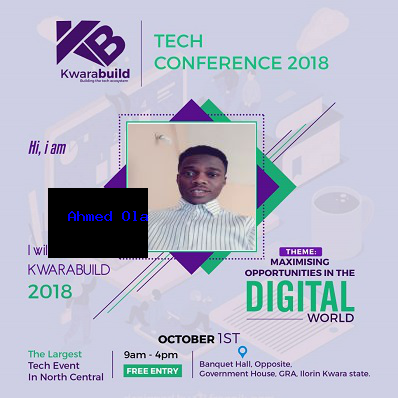
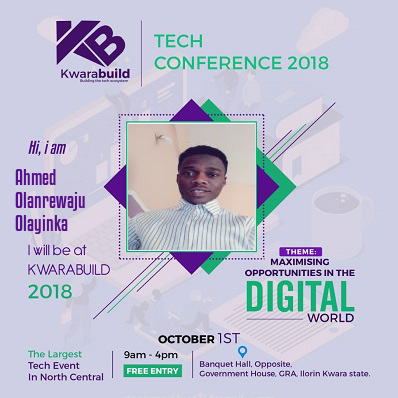
feat: add text to image and formatting

Changed region(s): [[0.0302, 0.4221, 0.392, 0.6633]]

diff --git a/auth/DP.php b/auth/DP.php
@@ -1,52 +1,12 @@
 <?php
 
-/*
-
-int imagecopy ( resource dest_image, resource source_image, int dest_x, int dest_y, 
-int source_x, int source_y, int source_width, int source_height)
-
-int imagecopymerge ( resource dest_image, resource source_image, int dest_x, int dest_y, 
-int source_x, int source_y, int source_width, int source_height, int merge_percentage)
-
-1. The destination image you're copying to
-
-2. The source image you're copying from
-
-3. The X co-ordinate you want to copy to
-
-4. The Y co-ordinate you want to copy to
-
-5. The X co-ordinate you want to copy from
-
-6. The y co-ordinate you want to copy from
-
-7. The width in pixels of the source image you want to copy
-
-8. The height in pixels of the source image you want to copy
-
-Parameters three and four allow you to position the source image where you want it on the destination image, 
-and parameters five, six, seven, and eight allow you to define the rectangular area of the source image that 
-you want to copy. Most of the time you will want to leave parameters five and six at 0 
-(copy from the top-left hand corner of the image), and parameters seven and eight at the width of the source image
- (the bottom-right corner of it) so that it copies the entire source image.
-
-The way these functions differ is in the last parameter: imagecopy() always overwrites all the pixels in the 
-destination with those of the source, whereas imagecopymerge() merges the destination pixels with the source 
-pixels by the amount specified in the extra parameter: 0 means "keep the source picture fully", 100 means 
-"overwrite with the source picture fully", and 50 means "mix the source and destination pixel colours equally". 
-The imagecopy() function is therefore equivalent to calling imagecopymerge() and passing in 100 as the last parameter.
-
-*/
-
 class DISPLAY_PICTURE {
  
-   protected $db;
+   private static $image_name;
 
-   private static $sy;
-
-   function __construct()
+   function __construct($name)
     {
-        
+        $this->$image_name = $name;
     }
  
    function __destruct()
@@ -75,7 +35,7 @@ class DISPLAY_PICTURE {
 
 		$final_image = $this->addtext($txt, $frame, $av_img, 250, 140);
 
-		$this->saveFile($final_image, $destination_path, "a.jpg");
+		$this->saveFile($final_image, $destination_path, $this->$image_name);
 
 	}
 
@@ -142,43 +102,46 @@ class DISPLAY_PICTURE {
 	private function addtext($txt, $frame, $av_img, $merge_right, $merge_bottom)
 	{
 
-		/* 
+		// Set the enviroment variable for GD
+		putenv('GDFONTPATH=' . realpath('.'));
 
-		#imagettftext-params below
-		( resource $image , float $size , float $angle , int $x , int $y , int $color , string $fontfile , string $text )
+		// Set the content-type
+		// header('Content-type: image/jpeg');
 
-		image : An image resource, returned by one of the image creation functions, such as imagecreatetruecolor().
+		// Create Image From Existing File
+		$jpg_image = $frame;
 
-		size: The font size in points.
+		// Allocate A Color For The Text
+		$white = imagecolorallocate($jpg_image, 87, 15, 140);
 
-		angle : The angle in degrees, with 0 degrees being left-to-right reading text. Higher values represent a counter-clockwise rotation. For example, a value of 90 would result in bottom-to-top reading text.
+		// Set Path to Font File
+		$font_path = '../src/fonts/kenyan_coffee/kenyan coffee rg.ttf';
 
-		x :The coordinates given by x and y will define the basepoint of the first character (roughly the lower-left corner of the character). This is different from the imagestring(), where x and y define the upper-left corner of the first character. For example, "top left" is 0, 0.
+		// Set Text to Be Printed On Image
+		$username  = $txt;
+		$names = explode(" ", $username);
+		$ycounter = 185;
+		$indexCounter = 0;
 
-		y : The y-ordinate. This sets the position of the fonts baseline, not the very bottom of the character.
+		foreach ($names as $text) {
+		    // Print Text On Image
+			imagettftext($jpg_image, 15, 0, 15, $ycounter, $white, $font_path, $text);
+			$ycounter += 23;
+			$indexCounter += 1;
+			if($names[$indexCounter] == $names[3]){
+				break;
+			}
+		}
 
-		color : The color index. Using the negative of a color index has the effect of turning off antialiasing. See imagecolorallocate().
+		$text = $txt;		
 
-		fontfile : The path to the TrueType font you wish to use.
+		// Send Image to Browser
+		// imagejpeg($jpg_image);
 
-		*/
+		// Using imagepng() results in clearer text compared with imagejpeg()
+		// imagepng($frame);
 
-		// First we create our stamp image manually from GD
-		$stamp = imagecreatetruecolor(100, 70);
-		// imagefilledrectangle($stamp, 0, 0, 99, 69, 0x0000FF);
-		// imagefilledrectangle($stamp, 9, 9, 90, 60, 0xFFFFFF);
-		imagestring($stamp, 5, 20, 20, $txt, 0x0000FF);
-
-		// Set the margins for the stamp and get the height/width of the stamp image
-		$marge_right = $merge_right;
-		$marge_bottom = $merge_bottom;
-		$sx = imagesx($stamp);
-		$sy = imagesy($stamp);
-
-		// Merge the stamp onto our photo with an opacity of 50%
-		imagecopymerge($frame, $stamp, imagesx($frame) - $sx - $merge_right, imagesy($frame) - $sy - $merge_bottom, 0, 0, imagesx($stamp), imagesy($stamp), 100);
-
-		return $frame;
+		return $jpg_image;
 	}
 
 	private function saveFile($final_image, $destination_path, $new_file_name){
@@ -187,38 +150,7 @@ class DISPLAY_PICTURE {
 		imagedestroy($final_image);
 	}
 
-
-
 }
-
-
-$txt = "Ahmed Olanrewaju";
-$uploadImage = "1536424536034.jpg";
-
-$uploadDir = "../uploads/";
-$moveToDir = "../uploads/thumbnail/";
-
-$final_destination = "../uploads/dp/";
-$frameImg = "../src/img/frame.jpeg";
-
-// image dimension variable
-$img_width = 170;
-$img_height = 126;
-
-// image position
-$margin_right = 143;
-$margin_bottom = 148;
-
-
-//call 
-$dp = new DISPLAY_PICTURE();
-
-//create thumnail
-$dp->createThumbnail($uploadImage, $img_width, $img_height, $uploadDir, $moveToDir);
-
-//merge picture
-$dp->mergeImage($txt, $frameImg, $moveToDir.$uploadImage, $margin_right, $margin_bottom, $final_destination);
-
 
 ?>
 

diff --git a/auth/upload.php b/auth/upload.php
@@ -4,12 +4,30 @@ include_once("DP.php");
 
 $DP = new DISPLAY_PICTURE();
 
+$txt = "Ahmed Olanrewaju Olayinka jhhfdjjhdf";
+
+$uploadDir = "../uploads/";
+$moveToDir = "../uploads/thumbnail/";
+
+$final_destination = "../uploads/dp/";
+$frameImg = "../src/img/frame.jpeg";
+
+// image dimension variable
+$img_width = 170;
+$img_height = 126;
+
+// image position
+$margin_right = 143;
+$margin_bottom = 148;
+
 if(isset($_FILES["avatar"]["type"])) {
 
     $validextensions = array("jpeg", "jpg", "png");
     $temporary = explode(".", $_FILES["avatar"]["name"]);
     $file_extension = end($temporary);        
+
     $time = $_POST['timestamp'];
+    $username = $_POST['username'];
     $newfilename = $time .".".$file_extension;
     
     if ((($_FILES["avatar"]["type"] == "image/png") || ($_FILES["avatar"]["type"] == "image/jpg") || ($_FILES["avatar"]["type"] == "image/jpeg")) && ($_FILES["avatar"]["size"] <= 2000000) && in_array($file_extension, $validextensions)) {
@@ -19,19 +37,30 @@ if(isset($_FILES["avatar"]["type"])) {
         }
         else
         {
-          if (file_exists("../uploads/" . $newfilename)) {
-            echo "Image exist.";
+          if (file_exists($uploadDir.$newfilename)) {
             $sourcePath = $_FILES["avatar"]["tmp_name"]; // Storing source path of the file in a variable
-            $targetPath = "../uploads/".$newfilename; // Target path where file is to be stored
+            $targetPath = $uploadDir.$newfilename; // Target path where file is to be stored
             move_uploaded_file($sourcePath,$targetPath) ; // Moving Uploaded file
           }
           else
           {
             $sourcePath = $_FILES["avatar"]["tmp_name"]; // Storing source path of the file in a variable
-            $targetPath = "../uploads/".$newfilename; // Target path where file is to be stored
-            move_uploaded_file($sourcePath,$targetPath) ; // Moving Uploaded file
-            echo "Image successfully uploaded.";
-            //to do here
+            $targetPath = $uploadDir.$newfilename; // Target path where file is to be stored
+            
+            if(move_uploaded_file($sourcePath,$targetPath) /*Moving Uploaded file*/ ){
+
+              //create dp instance 
+              $dp = new DISPLAY_PICTURE($newfilename);
+
+              //create thumnail
+              $dp->createThumbnail($newfilename, $img_width, $img_height, $uploadDir, $moveToDir);
+
+              //merge picture
+              $dp->mergeImage($txt, $frameImg, $moveToDir.$newfilename, $margin_right, $margin_bottom, $final_destination);
+                
+            }else{
+              echo "Image processing failed, please try again.";
+            }
                             
           }
         }
@@ -43,6 +72,5 @@ if(isset($_FILES["avatar"]["type"])) {
 }else{
   echo "No file selected";
 }
-//echo $result;
 
 ?>
